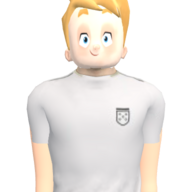
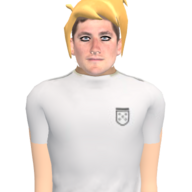
Caras realistas para Ty, Big Vegas y Granny
- Llevan la cara de un modelo realista y conservan de su cabeza lo que no es piel: pelo, tupé, gorra, rulos y gafas, ajustado al cráneo real
- Remy: sin piel del pecho asomando por el cuello de la camiseta
- Retratos regenerados

Claude-Session: https://claude.ai/code/session_017Zx2H8d6dd2Bde9S1DSPYC

diff --git a/arenamix/chars.js b/arenamix/chars.js
@@ -82,6 +82,7 @@
   var FIT = { remy: { Shorts: 1.1, Shirt: 1.04, Body: 0.94 } };
   var WEAR = { leo: /Ch23_(Suit|Belt|Shirt|Pants|Shoes)$/, nico: /Ch28_(Sneakers|Pants|Hoody)$/, remy: /^(Shoes|Tops|Bottoms)$/ };
   var DROP = { ty: /Scarf/ };
+  var TRIM = { remy: /(Spine|Spine1|Spine2|Shoulder)$/ };
   function footballers() {
     var src = tpl[KIT_SRC];
     Object.keys(DROP).forEach(function (id) {
@@ -145,6 +146,15 @@
       if (!made.length) return;
       var parent = ref.parent;
       old.forEach(function (m) { m.parent.remove(m); });
+      // skin of the torso that the old (lower cut) shirt showed would poke through the new one
+      if (TRIM[id]) root.traverse(function (m) {
+        if (!m.isSkinnedMesh || !/^Body$|_Body$/.test(m.name) || m.name === 'Legs_Body') return;
+        var geo = m.geometry.clone(), names = m.skeleton.bones.map(function (b) { return b.name; }), si = geo.attributes.skinIndex, sw = geo.attributes.skinWeight, gi = geo.index, keep = [];
+        if (!gi) return;
+        var tor = function (x) { var best = 0, bw = -1; for (var q = 0; q < 4; q++) { var w = sw.array[x * 4 + q]; if (w > bw) { bw = w; best = si.array[x * 4 + q]; } } return TRIM[id].test(names[best] || ''); };
+        for (var f = 0; f < gi.count; f += 3) { var a2 = gi.getX(f), b2 = gi.getX(f + 1), c2 = gi.getX(f + 2); if (!(tor(a2) || tor(b2) || tor(c2))) keep.push(a2, b2, c2); }
+        geo.setIndex(keep); m.geometry = geo;
+      });
       made.forEach(function (o) {
         parent.add(o.mesh); o.mesh.updateMatrixWorld(true);
         o.mesh.bind(new T.Skeleton(o.bones), o.mesh.matrixWorld.clone());
@@ -176,93 +186,173 @@
     });
     return box.isEmpty() ? 0 : (box.max.x - box.min.x) / (t.neck || 1);
   }
-  /* ---------- cartoon characters on the footballer body ----------
-     Ty, Big Vegas and Granny keep their head (face, hair, glasses...) on Dani's body and kit, so everyone
-     has the same height and build. The head is cut from the model (what the head bone moves), scaled to a
-     slightly big footballer head and fixed on Dani's head bone; Dani's skin is tinted to theirs. */
-  var HEADS = { ty: { skin: '#EDB898', size: 1.0, maxW: 1.12, lift: 0.04 }, vegas: { skin: '#E6B08C', size: 1.0, maxW: 1.12, lift: 0.04 }, granny: { skin: '#B9CFC2', size: 1.0, maxW: 1.12, lift: 0.04 } };
-  var DANI_SKIN = new T.Color('#C99A7E');
+  /* ---------- cartoon characters as real footballers ----------
+     Ty, Big Vegas and Granny get a real face (the head of one of the realistic models) on Dani's body and kit,
+     and keep what makes them who they are: what their cartoon head has that isn't skin (hair, cap, curlers,
+     glasses...), fitted over the real skull. Everyone has the same height and build. */
+  var HEADS = {
+    // minY: only what is above this height of the skull (hair, cap, glasses; not chin or collar)
+    ty: { face: 'remy', keep: /Hair/, grow: 1.03 },
+    vegas: { face: 'leo', keep: null, minY: 0.34, skinD: 0.3, grow: 1.05, up: 0.1 },
+    granny: { face: 'dani', keep: null, minY: 0.36, grow: 1.06 }
+  };
+  // Dani's skin tinted to each face's (multiplier on his texture), and the colour of the bare arms
+  var FACE_TINT = { dani: '#FFFFFF', leo: '#F2E2D8', remy: '#D9B497' };
+  var FACE_ARM = { dani: '#C99A7E', leo: '#D9AE93', remy: '#D2A88A' };
+  // the bones the head bone carries
+  function headSet(root) {
+    var hb = null, set = {};
+    root.traverse(function (b) { if (b.isBone && b.name === 'mixamorigHead' && !hb) hb = b; });
+    if (hb) hb.traverse(function (b) { if (b.isBone) set[b.name] = 1; });
+    return { bone: hb, set: set };
+  }
+  function domBone(sw, si, i) { var best = 0, bw = -1; for (var q = 0; q < 4; q++) { var w = sw.array[i * 4 + q]; if (w > bw) { bw = w; best = si.array[i * 4 + q]; } } return best; }
+  /* the head pieces of a model, in its world space: [{ P, N, uv, idx, groups, material, name }]
+     triTest(mesh, a, b, c, P) decides which triangles to keep */
+  function headPieces(t, meshTest, triTest) {
+    var out = [], hs = headSet(t.root), v = new T.Vector3(), nv = new T.Vector3(), nmW = new T.Matrix3();
+    t.root.updateMatrixWorld(true);
+    t.root.traverse(function (m) {
+      if (!m.isSkinnedMesh || !meshTest(m)) return;
+      var geo = m.geometry, pos = geo.attributes.position, si = geo.attributes.skinIndex, sw = geo.attributes.skinWeight, nrm = geo.attributes.normal;
+      if (!si || !sw) return;
+      var names = m.skeleton.bones.map(function (b) { return b.name; }), n = pos.count;
+      var P = new Float32Array(n * 3), N = new Float32Array(n * 3), inH = new Uint8Array(n);
+      nmW.getNormalMatrix(m.matrixWorld);
+      for (var i = 0; i < n; i++) {
+        inH[i] = hs.set[names[domBone(sw, si, i)]] ? 1 : 0;
+        v.fromBufferAttribute(pos, i); m.boneTransform(i, v); v.applyMatrix4(m.matrixWorld);
+        P[i * 3] = v.x; P[i * 3 + 1] = v.y; P[i * 3 + 2] = v.z;
+        if (nrm) { nv.fromBufferAttribute(nrm, i).applyMatrix3(nmW).normalize(); N[i * 3] = nv.x; N[i * 3 + 1] = nv.y; N[i * 3 + 2] = nv.z; }
+      }
+      var idx = geo.index, cnt = idx ? idx.count : n, keep = [];
+      var groups = geo.groups && geo.groups.length ? geo.groups : [{ start: 0, count: cnt, materialIndex: 0 }], ng = [];
+      groups.forEach(function (gr) {
+        var st = keep.length;
+        for (var f = gr.start; f < gr.start + gr.count; f += 3) {
+          var a = idx ? idx.getX(f) : f, b = idx ? idx.getX(f + 1) : f + 1, c = idx ? idx.getX(f + 2) : f + 2;
+          if (inH[a] && inH[b] && inH[c] && triTest(m, a, b, c, gr.materialIndex)) keep.push(a, b, c);
+        }
+        if (keep.length > st) ng.push({ start: st, count: keep.length - st, materialIndex: gr.materialIndex });
+      });
+      if (keep.length) out.push({ P: P, N: nrm ? N : null, uv: geo.attributes.uv, idx: keep, groups: ng, material: m.material, name: m.name });
+    });
+    return out;
+  }
+  // texture colour under a vertex (sRGB 0..1), for telling skin from hair and accessories
+  var pixCache = new Map();
+  function texel(mt, uv, i) {
+    var img = mt && mt.map && mt.map.image; if (!img || !uv) return null;
+    var px = pixCache.get(img);
+    if (!px) { try { var cv = document.createElement('canvas'); cv.width = 256; cv.height = 256; var c = cv.getContext('2d'); c.drawImage(img, 0, 0, 256, 256); px = c.getImageData(0, 0, 256, 256).data; } catch (e) { px = null; } pixCache.set(img, px || 0); }
+    if (!px) return null;
+    var u = uv.getX(i), w = uv.getY(i); u -= Math.floor(u); w -= Math.floor(w);
+    if (mt.map.flipY !== false) w = 1 - w;
+    var o = (Math.min(255, Math.floor(w * 256)) * 256 + Math.min(255, Math.floor(u * 256))) * 4;
+    return [px[o] / 255, px[o + 1] / 255, px[o + 2] / 255];
+  }
+  // pieces → meshes on a holder (fixed to a bone), each vertex moved by fn(vector)
+  function placePieces(pieces, holder, fn, box, boxHair) {
+    var v = new T.Vector3();
+    pieces.forEach(function (pc) {
+      var n = pc.P.length / 3, P = new Float32Array(n * 3);
+      for (var i = 0; i < n; i++) { v.set(pc.P[i * 3], pc.P[i * 3 + 1], pc.P[i * 3 + 2]); fn(v); P[i * 3] = v.x; P[i * 3 + 1] = v.y; P[i * 3 + 2] = v.z; }
+      var g2 = new T.BufferGeometry();
+      g2.setAttribute('position', new T.Float32BufferAttribute(P, 3));
+      if (pc.uv) g2.setAttribute('uv', pc.uv);
+      g2.setIndex(pc.idx);
+      if (pc.N) g2.setAttribute('normal', new T.Float32BufferAttribute(pc.N, 3)); else g2.computeVertexNormals();
+      pc.groups.forEach(function (gr) { g2.addGroup(gr.start, gr.count, gr.materialIndex); });
+      var mats = [].concat(pc.material).map(function (mt) { var c2 = mt.clone(); c2.skinning = false; c2.morphTargets = false; return c2; });
+      var mesh = new T.Mesh(g2, mats.length > 1 ? mats : mats[0]);
+      if (mats.length === 1) g2.clearGroups();
+      mesh.name = 'Head_' + pc.name; mesh.castShadow = true; mesh.frustumCulled = false;
+      pc.idx.forEach(function (x) { v.set(P[x * 3], P[x * 3 + 1], P[x * 3 + 2]); (pc.hair ? boxHair : box).expandByPoint(v); });
+      holder.add(mesh);
+    });
+  }
   function headOnBody(id) {
-    var src = tpl[id], base = tpl[KIT_SRC], cfg = HEADS[id];
-    if (!src || !base || !cfg) return;
+    var src = tpl[id], base = tpl[KIT_SRC], cfg = HEADS[id], face = tpl[cfg && cfg.face];
+    if (!src || !base || !cfg || !face) return;
     var root = T.SkeletonUtils.clone(base.root);
-    root.updateMatrixWorld(true); src.root.updateMatrixWorld(true);
-    var by = {}; root.traverse(function (b) { if (b.isBone && !by[b.name]) by[b.name] = b; });
-    var sby = {}; src.root.traverse(function (b) { if (b.isBone && !sby[b.name]) sby[b.name] = b; });
-    var hB = by.mixamorigHead, sH = sby.mixamorigHead;
-    if (!hB || !sH) return;
-    var under = {}; sH.traverse(function (b) { if (b.isBone) under[b.name] = 1; });
-    var dHead = {}; hB.traverse(function (b) { if (b.isBone) dHead[b.name] = 1; });
-    var tint = new T.Color(cfg.skin), sk = { r: tint.r / DANI_SKIN.r, g: tint.g / DANI_SKIN.g, b: tint.b / DANI_SKIN.b };
+    root.updateMatrixWorld(true);
+    var dh = headSet(root), hB = dh.bone, fh = headSet(face.root), sh = headSet(src.root);
+    if (!hB || !fh.bone || !sh.bone) return;
+    var ownFace = cfg.face === KIT_SRC, tint = new T.Color(FACE_TINT[cfg.face] || '#FFFFFF');
     var drop = [];
     root.traverse(function (m) {
       if (!m.isSkinnedMesh) return;
-      if (/Hair|Eyelashes/.test(m.name)) { drop.push(m); return; }
-      if (m.userData.bareArms) { m.material = m.material.clone(); m.material.color = new T.Color(cfg.skin).convertSRGBToLinear(); return; }
+      if (/Hair$/.test(m.name) || (!ownFace && /Eyelashes$/.test(m.name))) { drop.push(m); return; }
+      if (m.userData.bareArms) { m.material = m.material.clone(); m.material.color = new T.Color(FACE_ARM[cfg.face] || '#C99A7E').convertSRGBToLinear(); return; }
       if (!/Body$/.test(m.name)) return;
-      // Dani's skin without his head, tinted
+      m.material = m.material.clone(); m.material.color = tint.clone();
+      if (ownFace) return;
+      // Dani's skin without his head (the top of the neck stays, so no gap shows under the new one)
       var geo = m.geometry.clone(), names = m.skeleton.bones.map(function (b) { return b.name; }), si = geo.attributes.skinIndex, sw = geo.attributes.skinWeight, gi = geo.index, keep = [];
-      // the top of the neck stays (up to under the chin) so no gap shows below the new head
       var hp = geo.attributes.position, hv = new T.Vector3(), cut = base.head.skull.min.y + (base.head.skull.max.y - base.head.skull.min.y) * 0.07;
-      var isHead = function (x) { var best = 0, bw = -1; for (var q = 0; q < 4; q++) { var w = sw.array[x * 4 + q]; if (w > bw) { bw = w; best = si.array[x * 4 + q]; } } if (!dHead[names[best]]) return false; hv.fromBufferAttribute(hp, x); m.boneTransform(x, hv); hv.applyMatrix4(m.matrixWorld); return hv.y > cut; };
+      var isHead = function (x) { if (!dh.set[names[domBone(sw, si, x)]]) return false; hv.fromBufferAttribute(hp, x); m.boneTransform(x, hv); hv.applyMatrix4(m.matrixWorld); return hv.y > cut; };
       for (var f = 0; f < gi.count; f += 3) { var a = gi.getX(f), b = gi.getX(f + 1), c = gi.getX(f + 2); if (!(isHead(a) && isHead(b) && isHead(c))) keep.push(a, b, c); }
       geo.setIndex(keep); m.geometry = geo;
-      m.material = m.material.clone(); m.material.color = new T.Color(sk.r, sk.g, sk.b);
     });
     drop.forEach(function (m) { m.parent.remove(m); });
-    // the cartoon head, in the cartoon model's world space, then moved onto Dani's head bone
-    var pS = new T.Vector3().setFromMatrixPosition(sH.matrixWorld), pD = new T.Vector3().setFromMatrixPosition(hB.matrixWorld);
-    var sw0 = src.head.skull.max.x - src.head.skull.min.x, dw0 = base.head.skull.max.x - base.head.skull.min.x;
-    // a footballer's head: as tall as Dani's face (times size), and no wider than a real head would be
-    var sh0 = src.head.skull.max.y - src.head.skull.min.y, dh0 = base.head.skull.max.y - base.head.skull.min.y;
-    var kv = cfg.size * dh0 / (sh0 || 1), kh = Math.min(kv, cfg.maxW * dw0 / (sw0 || 1));
-    var k = new T.Vector3(kh, kv, kh), ik = new T.Vector3(1 / kh, 1 / kv, 1 / kh);
-    // the chin where Dani's chin is, the face centred on his
-    var sc0 = src.head.skull.getCenter(new T.Vector3()), dc0 = base.head.skull.getCenter(new T.Vector3());
-    var shift = new T.Vector3(dc0.x - (pD.x + (sc0.x - pS.x) * kh), base.head.skull.min.y + (cfg.lift || 0) * dh0 - (pD.y + (src.head.skull.min.y - pS.y) * kv), dc0.z - (pD.z + (sc0.z - pS.z) * kh));
-    var nmW = new T.Matrix3();
-    var holder = new T.Group(); holder.matrixAutoUpdate = false;
-    holder.matrix.copy(hB.matrixWorld).invert(); holder.name = 'CartoonHead';
+    var holder = new T.Group(); holder.matrixAutoUpdate = false; holder.name = 'NewHead';
+    holder.matrix.copy(hB.matrixWorld).invert();
     hB.add(holder);
-    var skull = new T.Box3(), all = new T.Box3(), v = new T.Vector3();
-    src.root.traverse(function (m) {
-      if (!m.isSkinnedMesh || /Hands/.test(m.name)) return;
-      var geo = m.geometry, pos = geo.attributes.position, si = geo.attributes.skinIndex, sw = geo.attributes.skinWeight;
-      if (!si || !sw) return;
-      var names = m.skeleton.bones.map(function (b) { return b.name; }), n = pos.count, P = new Float32Array(n * 3), inHead = new Uint8Array(n);
-      var nrm = geo.attributes.normal, N = nrm ? new Float32Array(n * 3) : null, nv = new T.Vector3();
-      nmW.getNormalMatrix(m.matrixWorld);
-      for (var i = 0; i < n; i++) {
-        var best = 0, bw = -1;
-        for (var q = 0; q < 4; q++) { var w = sw.array[i * 4 + q]; if (w > bw) { bw = w; best = si.array[i * 4 + q]; } }
-        inHead[i] = under[names[best]] ? 1 : 0;
-        v.fromBufferAttribute(pos, i); m.boneTransform(i, v); v.applyMatrix4(m.matrixWorld);
-        v.sub(pS).multiply(k).add(pD).add(shift);
-        if (N) { nv.fromBufferAttribute(nrm, i).applyMatrix3(nmW).multiply(ik).normalize(); N[i * 3] = nv.x; N[i * 3 + 1] = nv.y; N[i * 3 + 2] = nv.z; }
-        P[i * 3] = v.x; P[i * 3 + 1] = v.y; P[i * 3 + 2] = v.z;
-      }
-      var idx = geo.index, keep = [];
-      if (idx) { for (var f = 0; f < idx.count; f += 3) { var a = idx.getX(f), b = idx.getX(f + 1), c = idx.getX(f + 2); if (inHead[a] && inHead[b] && inHead[c]) keep.push(a, b, c); } }
-      else for (var f2 = 0; f2 < n; f2 += 3) if (inHead[f2] && inHead[f2 + 1] && inHead[f2 + 2]) keep.push(f2, f2 + 1, f2 + 2);
-      if (!keep.length) return;
-      var g2 = new T.BufferGeometry();
-      g2.setAttribute('position', new T.Float32BufferAttribute(P, 3));
-      if (geo.attributes.uv) g2.setAttribute('uv', geo.attributes.uv);
-      g2.setIndex(keep);
-      if (N) g2.setAttribute('normal', new T.Float32BufferAttribute(N, 3)); else g2.computeVertexNormals();
-      var hair = /hair/i.test(m.name);
-      keep.forEach(function (x) { v.set(P[x * 3], P[x * 3 + 1], P[x * 3 + 2]); all.expandByPoint(v); if (!hair) skull.expandByPoint(v); });
-      var mats = [].concat(m.material).map(function (mt) { var c2 = mt.clone(); c2.skinning = false; c2.morphTargets = false; return c2; });
-      var mesh = new T.Mesh(g2, Array.isArray(m.material) ? mats : mats[0]);
-      // keep the material groups of multi-material meshes
-      if (Array.isArray(m.material) && geo.groups) geo.groups.forEach(function (gr) { g2.addGroup(gr.start, gr.count, gr.materialIndex); });
-      mesh.name = 'Head_' + m.name; mesh.castShadow = true; mesh.frustumCulled = false;
-      holder.add(mesh);
+    var pD = new T.Vector3().setFromMatrixPosition(hB.matrixWorld);
+    // the real face: the head of the face model, moved from its head bone to Dani's, at Dani's scale
+    var real = { min: base.head.skull.min.clone(), max: base.head.skull.max.clone() };
+    if (!ownFace) {
+      var pF = new T.Vector3().setFromMatrixPosition(fh.bone.matrixWorld), kf = (base.neck || 1) / (face.neck || 1);
+      var fp = headPieces(face, function (m) { return !/Hair|Shirt|Tops|Hoody|Suit|Scarf/i.test(m.name); }, function () { return true; });
+      var fb = new T.Box3(), fbh = new T.Box3();
+      placePieces(fp, holder, function (v) { v.sub(pF).multiplyScalar(kf).add(pD); }, fb, fbh);
+      // where the new skull is (eyes and lashes don't count)
+      var sk0 = face.head.skull;
+      real.min.copy(sk0.min).sub(pF).multiplyScalar(kf).add(pD); real.max.copy(sk0.max).sub(pF).multiplyScalar(kf).add(pD);
+    }
+    // what the cartoon head has that isn't skin, over the real skull
+    var cs = src.head.skull, cc = cs.getCenter(new T.Vector3()), rc = new T.Vector3().addVectors(real.min, real.max).multiplyScalar(0.5);
+    var sx = (real.max.x - real.min.x) / (cs.max.x - cs.min.x || 1), sy = (real.max.y - real.min.y) / (cs.max.y - cs.min.y || 1), sz = (real.max.z - real.min.z) / (cs.max.z - cs.min.z || 1);
+    var grow = cfg.grow || 1.05, yMin = cs.min.y + (cs.max.y - cs.min.y) * (cfg.minY || 0);
+    // skin colour of the cartoon face: the texel at the front of the face
+    var skinRef = null;
+    var ap = headPieces(src, function (m) { return !/Hands|Eyes|Mouth|Brows|Lash/i.test(m.name) && (!cfg.keep || cfg.keep.test(m.name)); }, function (m, a, b, c, mi) {
+      if (cfg.keep) return true;
+      var Pm = m.geometry.attributes.position, cy = 0, vv = new T.Vector3();
+      [a, b, c].forEach(function (x) { vv.fromBufferAttribute(Pm, x); m.boneTransform(x, vv); vv.applyMatrix4(m.matrixWorld); cy += vv.y / 3; });
+      if (cy < yMin) return false;
+      var mt = [].concat(m.material)[mi] || [].concat(m.material)[0];
+      if (/lens/i.test(mt.name || '')) return true;
+      var uv = m.geometry.attributes.uv;
+      if (!skinRef) skinRef = faceSkin(src, m, mt);
+      var ta = texel(mt, uv, a), tb = texel(mt, uv, b), tc = texel(mt, uv, c);
+      if (!ta || !tb || !tc || !skinRef) return true;
+      if (cfg.noLight && (ta[0] + ta[1] + ta[2] + tb[0] + tb[1] + tb[2] + tc[0] + tc[1] + tc[2]) / 9 > 0.6) return false;
+      var d = 0; [ta, tb, tc].forEach(function (t2) { d += Math.abs(t2[0] - skinRef[0]) + Math.abs(t2[1] - skinRef[1]) + Math.abs(t2[2] - skinRef[2]); });
+      return d / 3 > (cfg.skinD || 0.22);
     });
+    ap.forEach(function (pc) { pc.hair = true; });
+    var ab = new T.Box3(), abh = new T.Box3();
+    placePieces(ap, holder, function (v) {
+      v.sub(cc); v.x *= sx * grow; v.y *= sy * grow; v.z *= sz * grow; v.add(rc); v.y += (cfg.up || 0) * (real.max.y - real.min.y);
+    }, ab, abh);
     root.updateMatrixWorld(true);
-    var box = new T.Box3().setFromObject(root);
-    tpl[id] = { root: root, box: box, neck: base.neck, head: { skull: skull.isEmpty() ? base.head.skull : skull, all: all.isEmpty() ? base.head.all : all, eyes: null, front: null } };
+    var skull = new T.Box3(real.min, real.max), all = skull.clone().union(abh);
+    tpl[id] = { root: root, box: new T.Box3().setFromObject(root), neck: base.neck, head: { skull: skull, all: all, eyes: null, front: null } };
     HEADFIX[id] = {};
+  }
+  // the skin colour at the front of a cartoon face (sRGB), sampled from its texture
+  function faceSkin(t, m, mt) {
+    var geo = m.geometry, pos = geo.attributes.position, uv = geo.attributes.uv, si = geo.attributes.skinIndex, sw = geo.attributes.skinWeight;
+    var hs = headSet(t.root), names = m.skeleton.bones.map(function (b) { return b.name; }), sk = t.head.skull, cx = (sk.min.x + sk.max.x) / 2;
+    var y0 = sk.min.y + (sk.max.y - sk.min.y) * 0.25, y1 = sk.min.y + (sk.max.y - sk.min.y) * 0.45, best = -Infinity, bi = -1, v = new T.Vector3();
+    for (var i = 0; i < pos.count; i++) {
+      if (!hs.set[names[domBone(sw, si, i)]]) continue;
+      v.fromBufferAttribute(pos, i); m.boneTransform(i, v); v.applyMatrix4(m.matrixWorld);
+      if (v.y < y0 || v.y > y1 || Math.abs(v.x - cx) > (sk.max.x - sk.min.x) * 0.12) continue;
+      if (v.z > best) { best = v.z; bi = i; }
+    }
+    return bi >= 0 ? texel(mt, uv, bi) : null;
   }
   /* ---------- sleeves and size (Taquilla) ---------- */
   var FIT_KEY = 'arenamix.fit.v1', FIT_DEF = { sleeve: 'short', size: 'M' };

diff --git a/arenamix/sw.js b/arenamix/sw.js
@@ -1,5 +1,5 @@
 /* Network-first so every update you publish reaches the phone; cache is the offline fallback. */
-const CACHE = 'arenamix-v180';
+const CACHE = 'arenamix-v181';
 const CORE = ['./', 'index.html', 'app.js', 'manifest.webmanifest', 'vendor/preact.min.js', 'vendor/three.min.js', 'vendor/GLTFLoader.js', 'vendor/SkeletonUtils.js', 'chars.js', 'gear.js', 'posters.js', 'hero.js', 'progress.js', 'results.js', 'sfx.js', 'online.js', 'social.js', 'vendor/peerjs.min.js', 'grass.js', 'sky.js', 'ball.js', 'vendor/RGBELoader.js', 'stadium.js', 'music.js', 'ui-fx.js', 'juice.js', 'i18n.js', 'i18n-en.js', 'assets/stadium/stadium.glb', 'assets/stadium/seats.json', 'assets/stadium/goal.glb', 'assets/sky/stadium_bg.jpg', 'assets/sky/stadium_env.hdr', 'assets/grass/color.jpg', 'assets/grass/normal.jpg', 'assets/grass/rough.jpg', 'assets/chars/ty.glb', 'assets/chars/vegas.glb', 'assets/chars/granny.glb', 'assets/chars/anims.json', 'icons/icon-192.png', 'icons/loading-bg.jpg', 'assets/lobby_bg.jpg', 'assets/grain.png', 'vendor/fonts/luckiestguy-latin.woff2', 'vendor/fonts/lilitaone-latin.woff2', 'vendor/fonts/rajdhani-500.woff2', 'vendor/fonts/rajdhani-600.woff2', 'vendor/fonts/rajdhani-700.woff2'];
 
 self.addEventListener('install', (e) => {

diff --git a/arenamix/index.html b/arenamix/index.html
@@ -64,7 +64,7 @@
 <script src="vendor/GLTFLoader.js"></script>
 <script src="vendor/SkeletonUtils.js"></script>
 <script src="vendor/RGBELoader.js"></script>
-<script src="chars.js?v=54"></script>
+<script src="chars.js?v=55"></script>
 <script src="gear.js?v=10"></script>
 <script src="posters.js?v=4"></script>
 <script src="hero.js?v=3"></script>
